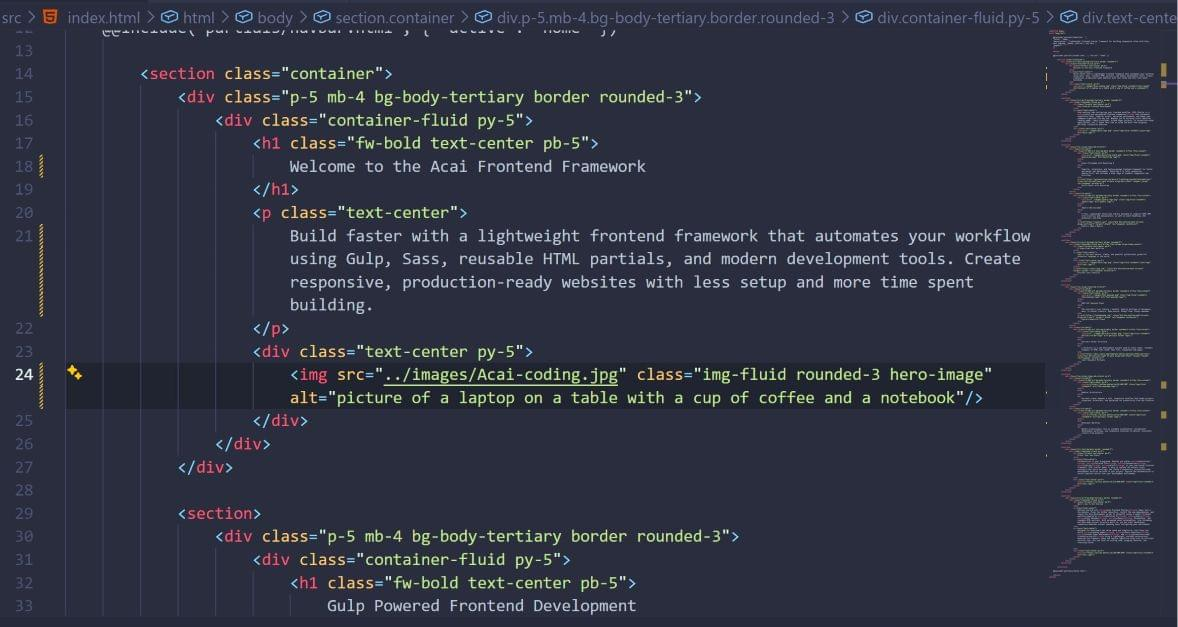
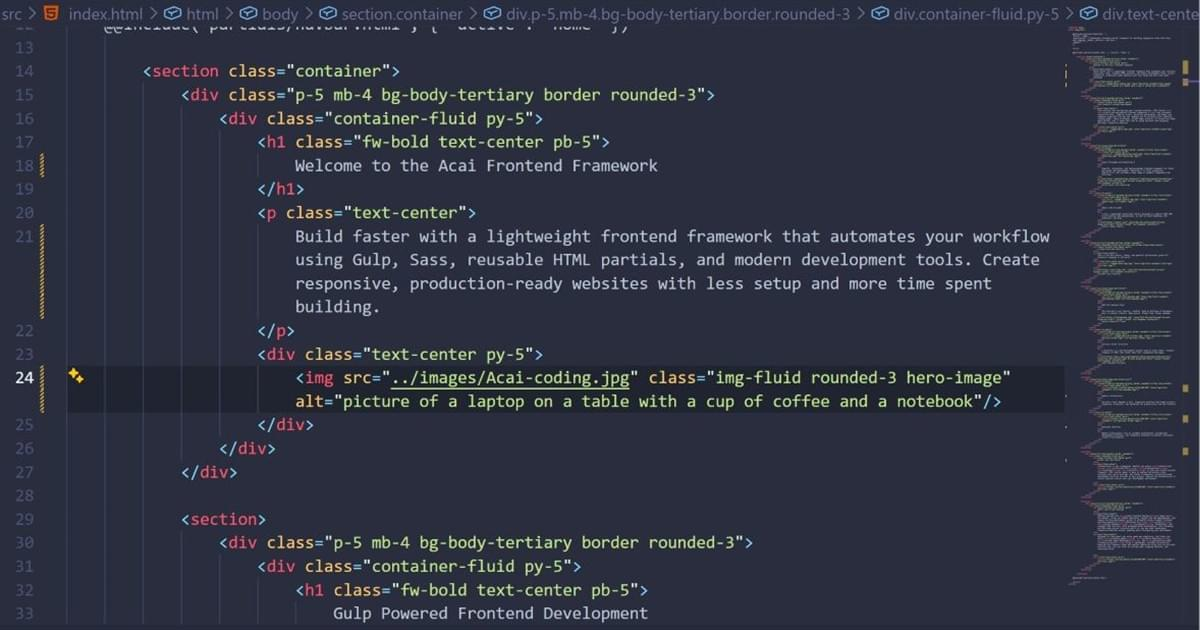
updated files

diff --git a/github.html b/github.html
@@ -1,4 +1,10 @@
-<!DOCTYPE html><html lang="en"><head><meta charset="UTF-8"><meta name="viewport" content="width=device-width,initial-scale=1"><title>GitHub | Project Acai</title><meta name="description" content="Download Project Acai, a lightweight frontend starter framework powered by Gulp, Bootstrap 5, Sass, BrowserSync, jQuery, Font Awesome, and reusable HTML partials."><meta name="robots" content="index, follow"><link rel="canonical" href="https://crendon213wp.github.io/project-acai/github.html"><link rel="icon" type="image/x-icon" href="images/acai-berry.png"><meta property="og:title" content="GitHub | Project Acai"><meta property="og:description" content="Download Project Acai, a lightweight frontend starter framework powered by Gulp, Bootstrap 5, Sass, BrowserSync, jQuery, Font Awesome, and reusable HTML partials."><meta property="og:image" content="https://crendon213wp.github.io/project-acai/images/og-image.jpg"><meta property="og:url" content="https://crendon213wp.github.io/project-acai/github.html"><meta property="og:type" content="website"><meta property="og:site_name" content="Project Acai"><meta name="twitter:card" content="summary_large_image"><meta name="twitter:title" content="GitHub | Project Acai"><meta name="twitter:description" content="Download Project Acai, a lightweight frontend starter framework powered by Gulp, Bootstrap 5, Sass, BrowserSync, jQuery, Font Awesome, and reusable HTML partials."><meta name="twitter:image" content="https://crendon213wp.github.io/project-acai/images/og-image.jpg"><link rel="preconnect" href="https://fonts.googleapis.com"><link rel="preconnect" href="https://fonts.gstatic.com" crossorigin><link href="https://fonts.googleapis.com/css2?family=Barlow:ital,wght@0,100;0,200;0,300;0,400;0,500;0,600;0,700;0,800;0,900;1,100;1,200;1,300;1,400;1,500;1,600;1,700;1,800;1,900&family=Montserrat:ital,wght@0,100..900;1,100..900&family=Space+Grotesk:ital,wght@0,100..900;1,100..900&family=Merriweather:ital,wght@0,100;0,200;0,300;0,400;0,500;0,600;0,700;0,800;0,900;1,100;1,200;1,300;1,400;1,500;1,600;1,700;1,800;1,900&display=swap" rel="stylesheet"><link rel="stylesheet" href="https://cdn.jsdelivr.net/npm/bootstrap@5.3.8/dist/css/bootstrap.min.css"><link rel="stylesheet" href="https://cdnjs.cloudflare.com/ajax/libs/font-awesome/7.0.1/css/all.min.css"><link rel="stylesheet" href="css/application.css"><script>(function(w,d,s,l,i){w[l]=w[l]||[];w[l].push({'gtm.start':
+<!DOCTYPE html><html lang="en"><head><meta charset="UTF-8"><meta name="viewport" content="width=device-width,initial-scale=1"><title>GitHub | Project Acai</title><meta name="description" content="Download Project Acai, a lightweight frontend starter framework powered by Gulp, Bootstrap 5, Sass, BrowserSync, jQuery, Font Awesome, and reusable HTML partials."><meta name="robots" content="index, follow"><link rel="canonical" href="https://crendon213wp.github.io/project-acai/github.html"><link rel="icon" type="image/svg+xml" href="images/favicon.svg"><link rel="icon" type="image/png" sizes="32x32" href="images/favicon-32x32.png"><link rel="apple-touch-icon" sizes="180x180" href="images/apple-touch-icon.png"><link rel="manifest" href="images/site.webmanifest"><meta property="og:title" content="GitHub | Project Acai"><meta property="og:description" content="Download Project Acai, a lightweight frontend starter framework powered by Gulp, Bootstrap 5, Sass, BrowserSync, jQuery, Font Awesome, and reusable HTML partials."><meta property="og:url" content="https://crendon213wp.github.io/project-acai/github.html"><meta property="og:type" content="website"><meta property="og:site_name" content="Project Acai"><meta property="og:locale" content="en_US"><meta property="og:image" content="https://crendon213wp.github.io/project-acai/images/og-image.jpg"><meta property="og:image:alt" content="Project Acai frontend starter displayed in a code editor"><meta property="og:image:width" content="1200"><meta property="og:image:height" content="630"><meta name="twitter:card" content="summary_large_image"><meta name="twitter:title" content="GitHub | Project Acai"><meta name="twitter:description" content="Download Project Acai, a lightweight frontend starter framework powered by Gulp, Bootstrap 5, Sass, BrowserSync, jQuery, Font Awesome, and reusable HTML partials."><meta name="twitter:image" content="https://crendon213wp.github.io/project-acai/images/og-image.jpg"><meta name="twitter:image:alt" content="Project Acai frontend starter displayed in a code editor"><meta name="theme-color" content="#5b2c6f"><script type="application/ld+json">{
+        "@context": "https://schema.org",
+        "@type": "WebPage",
+        "name": "GitHub | Project Acai",
+        "description": "Download Project Acai, a lightweight frontend starter framework powered by Gulp, Bootstrap 5, Sass, BrowserSync, jQuery, Font Awesome, and reusable HTML partials.",
+        "url": "https://crendon213wp.github.io/project-acai/github.html"
+    }</script><link rel="preconnect" href="https://fonts.googleapis.com"><link rel="preconnect" href="https://fonts.gstatic.com" crossorigin><link href="https://fonts.googleapis.com/css2?family=Barlow:ital,wght@0,100;0,200;0,300;0,400;0,500;0,600;0,700;0,800;0,900;1,100;1,200;1,300;1,400;1,500;1,600;1,700;1,800;1,900&family=Montserrat:ital,wght@0,100..900;1,100..900&family=Space+Grotesk:ital,wght@0,100..900;1,100..900&family=Merriweather:ital,wght@0,100;0,200;0,300;0,400;0,500;0,600;0,700;0,800;0,900;1,100;1,200;1,300;1,400;1,500;1,600;1,700;1,800;1,900&display=swap" rel="stylesheet"><link rel="stylesheet" href="https://cdn.jsdelivr.net/npm/bootstrap@5.3.8/dist/css/bootstrap.min.css"><link rel="stylesheet" href="https://cdnjs.cloudflare.com/ajax/libs/font-awesome/7.0.1/css/all.min.css"><link rel="stylesheet" href="css/application.css"><script>(function(w,d,s,l,i){w[l]=w[l]||[];w[l].push({'gtm.start':
     new Date().getTime(),event:'gtm.js'});var f=d.getElementsByTagName(s)[0],
     j=d.createElement(s),dl=l!='dataLayer'?'&l='+l:'';j.async=true;j.src=
     'https://www.googletagmanager.com/gtm.js?id='+i+dl;f.parentNode.insertBefore(j,f);

diff --git a/documentation.html b/documentation.html
@@ -1,4 +1,10 @@
-<!DOCTYPE html><html lang="en"><head><meta charset="UTF-8"><meta name="viewport" content="width=device-width,initial-scale=1"><title>Documentation | Project Acai</title><meta name="description" content="Lightweight frontend starter framework for building responsive sites with Gulp, Font Awesome, jQuery, partials, and Sass."><meta name="robots" content="index, follow"><link rel="canonical" href="https://crendon213wp.github.io/project-acai/documentation.html"><link rel="icon" type="image/x-icon" href="images/acai-berry.png"><meta property="og:title" content="Documentation | Project Acai"><meta property="og:description" content="Lightweight frontend starter framework for building responsive sites with Gulp, Font Awesome, jQuery, partials, and Sass."><meta property="og:image" content="https://crendon213wp.github.io/project-acai/images/og-image.jpg"><meta property="og:url" content="https://crendon213wp.github.io/project-acai/documentation.html"><meta property="og:type" content="website"><meta property="og:site_name" content="Project Acai"><meta name="twitter:card" content="summary_large_image"><meta name="twitter:title" content="Documentation | Project Acai"><meta name="twitter:description" content="Lightweight frontend starter framework for building responsive sites with Gulp, Font Awesome, jQuery, partials, and Sass."><meta name="twitter:image" content="https://crendon213wp.github.io/project-acai/images/og-image.jpg"><link rel="preconnect" href="https://fonts.googleapis.com"><link rel="preconnect" href="https://fonts.gstatic.com" crossorigin><link href="https://fonts.googleapis.com/css2?family=Barlow:ital,wght@0,100;0,200;0,300;0,400;0,500;0,600;0,700;0,800;0,900;1,100;1,200;1,300;1,400;1,500;1,600;1,700;1,800;1,900&family=Montserrat:ital,wght@0,100..900;1,100..900&family=Space+Grotesk:ital,wght@0,100..900;1,100..900&family=Merriweather:ital,wght@0,100;0,200;0,300;0,400;0,500;0,600;0,700;0,800;0,900;1,100;1,200;1,300;1,400;1,500;1,600;1,700;1,800;1,900&display=swap" rel="stylesheet"><link rel="stylesheet" href="https://cdn.jsdelivr.net/npm/bootstrap@5.3.8/dist/css/bootstrap.min.css"><link rel="stylesheet" href="https://cdnjs.cloudflare.com/ajax/libs/font-awesome/7.0.1/css/all.min.css"><link rel="stylesheet" href="css/application.css"><script>(function(w,d,s,l,i){w[l]=w[l]||[];w[l].push({'gtm.start':
+<!DOCTYPE html><html lang="en"><head><meta charset="UTF-8"><meta name="viewport" content="width=device-width,initial-scale=1"><title>Documentation | Project Acai</title><meta name="description" content="Lightweight frontend starter framework for building responsive sites with Gulp, Font Awesome, jQuery, partials, and Sass."><meta name="robots" content="index, follow"><link rel="canonical" href="https://crendon213wp.github.io/project-acai/documentation.html"><link rel="icon" type="image/svg+xml" href="images/favicon.svg"><link rel="icon" type="image/png" sizes="32x32" href="images/favicon-32x32.png"><link rel="apple-touch-icon" sizes="180x180" href="images/apple-touch-icon.png"><link rel="manifest" href="images/site.webmanifest"><meta property="og:title" content="Documentation | Project Acai"><meta property="og:description" content="Lightweight frontend starter framework for building responsive sites with Gulp, Font Awesome, jQuery, partials, and Sass."><meta property="og:url" content="https://crendon213wp.github.io/project-acai/documentation.html"><meta property="og:type" content="website"><meta property="og:site_name" content="Project Acai"><meta property="og:locale" content="en_US"><meta property="og:image" content="https://crendon213wp.github.io/project-acai/images/og-image.jpg"><meta property="og:image:alt" content="Project Acai frontend starter displayed in a code editor"><meta property="og:image:width" content="1200"><meta property="og:image:height" content="630"><meta name="twitter:card" content="summary_large_image"><meta name="twitter:title" content="Documentation | Project Acai"><meta name="twitter:description" content="Lightweight frontend starter framework for building responsive sites with Gulp, Font Awesome, jQuery, partials, and Sass."><meta name="twitter:image" content="https://crendon213wp.github.io/project-acai/images/og-image.jpg"><meta name="twitter:image:alt" content="Project Acai frontend starter displayed in a code editor"><meta name="theme-color" content="#5b2c6f"><script type="application/ld+json">{
+        "@context": "https://schema.org",
+        "@type": "WebPage",
+        "name": "Documentation | Project Acai",
+        "description": "Lightweight frontend starter framework for building responsive sites with Gulp, Font Awesome, jQuery, partials, and Sass.",
+        "url": "https://crendon213wp.github.io/project-acai/documentation.html"
+    }</script><link rel="preconnect" href="https://fonts.googleapis.com"><link rel="preconnect" href="https://fonts.gstatic.com" crossorigin><link href="https://fonts.googleapis.com/css2?family=Barlow:ital,wght@0,100;0,200;0,300;0,400;0,500;0,600;0,700;0,800;0,900;1,100;1,200;1,300;1,400;1,500;1,600;1,700;1,800;1,900&family=Montserrat:ital,wght@0,100..900;1,100..900&family=Space+Grotesk:ital,wght@0,100..900;1,100..900&family=Merriweather:ital,wght@0,100;0,200;0,300;0,400;0,500;0,600;0,700;0,800;0,900;1,100;1,200;1,300;1,400;1,500;1,600;1,700;1,800;1,900&display=swap" rel="stylesheet"><link rel="stylesheet" href="https://cdn.jsdelivr.net/npm/bootstrap@5.3.8/dist/css/bootstrap.min.css"><link rel="stylesheet" href="https://cdnjs.cloudflare.com/ajax/libs/font-awesome/7.0.1/css/all.min.css"><link rel="stylesheet" href="css/application.css"><script>(function(w,d,s,l,i){w[l]=w[l]||[];w[l].push({'gtm.start':
     new Date().getTime(),event:'gtm.js'});var f=d.getElementsByTagName(s)[0],
     j=d.createElement(s),dl=l!='dataLayer'?'&l='+l:'';j.async=true;j.src=
     'https://www.googletagmanager.com/gtm.js?id='+i+dl;f.parentNode.insertBefore(j,f);

diff --git a/components.html b/components.html
@@ -1,4 +1,10 @@
-<!DOCTYPE html><html lang="en"><head><meta charset="UTF-8"><meta name="viewport" content="width=device-width,initial-scale=1"><title>Components | Project Acai</title><meta name="description" content="Lightweight frontend starter framework for building responsive sites with Gulp, Font Awesome, jQuery, partials, and Sass."><meta name="robots" content="index, follow"><link rel="canonical" href="https://crendon213wp.github.io/project-acai/components.html"><link rel="icon" type="image/x-icon" href="images/acai-berry.png"><meta property="og:title" content="Components | Project Acai"><meta property="og:description" content="Lightweight frontend starter framework for building responsive sites with Gulp, Font Awesome, jQuery, partials, and Sass."><meta property="og:image" content="https://crendon213wp.github.io/project-acai/images/og-image.jpg"><meta property="og:url" content="https://crendon213wp.github.io/project-acai/components.html"><meta property="og:type" content="website"><meta property="og:site_name" content="Project Acai"><meta name="twitter:card" content="summary_large_image"><meta name="twitter:title" content="Components | Project Acai"><meta name="twitter:description" content="Lightweight frontend starter framework for building responsive sites with Gulp, Font Awesome, jQuery, partials, and Sass."><meta name="twitter:image" content="https://crendon213wp.github.io/project-acai/images/og-image.jpg"><link rel="preconnect" href="https://fonts.googleapis.com"><link rel="preconnect" href="https://fonts.gstatic.com" crossorigin><link href="https://fonts.googleapis.com/css2?family=Barlow:ital,wght@0,100;0,200;0,300;0,400;0,500;0,600;0,700;0,800;0,900;1,100;1,200;1,300;1,400;1,500;1,600;1,700;1,800;1,900&family=Montserrat:ital,wght@0,100..900;1,100..900&family=Space+Grotesk:ital,wght@0,100..900;1,100..900&family=Merriweather:ital,wght@0,100;0,200;0,300;0,400;0,500;0,600;0,700;0,800;0,900;1,100;1,200;1,300;1,400;1,500;1,600;1,700;1,800;1,900&display=swap" rel="stylesheet"><link rel="stylesheet" href="https://cdn.jsdelivr.net/npm/bootstrap@5.3.8/dist/css/bootstrap.min.css"><link rel="stylesheet" href="https://cdnjs.cloudflare.com/ajax/libs/font-awesome/7.0.1/css/all.min.css"><link rel="stylesheet" href="css/application.css"><script>(function(w,d,s,l,i){w[l]=w[l]||[];w[l].push({'gtm.start':
+<!DOCTYPE html><html lang="en"><head><meta charset="UTF-8"><meta name="viewport" content="width=device-width,initial-scale=1"><title>Components | Project Acai</title><meta name="description" content="Lightweight frontend starter framework for building responsive sites with Gulp, Font Awesome, jQuery, partials, and Sass."><meta name="robots" content="index, follow"><link rel="canonical" href="https://crendon213wp.github.io/project-acai/components.html"><link rel="icon" type="image/svg+xml" href="images/favicon.svg"><link rel="icon" type="image/png" sizes="32x32" href="images/favicon-32x32.png"><link rel="apple-touch-icon" sizes="180x180" href="images/apple-touch-icon.png"><link rel="manifest" href="images/site.webmanifest"><meta property="og:title" content="Components | Project Acai"><meta property="og:description" content="Lightweight frontend starter framework for building responsive sites with Gulp, Font Awesome, jQuery, partials, and Sass."><meta property="og:url" content="https://crendon213wp.github.io/project-acai/components.html"><meta property="og:type" content="website"><meta property="og:site_name" content="Project Acai"><meta property="og:locale" content="en_US"><meta property="og:image" content="https://crendon213wp.github.io/project-acai/images/og-image.jpg"><meta property="og:image:alt" content="Project Acai frontend starter displayed in a code editor"><meta property="og:image:width" content="1200"><meta property="og:image:height" content="630"><meta name="twitter:card" content="summary_large_image"><meta name="twitter:title" content="Components | Project Acai"><meta name="twitter:description" content="Lightweight frontend starter framework for building responsive sites with Gulp, Font Awesome, jQuery, partials, and Sass."><meta name="twitter:image" content="https://crendon213wp.github.io/project-acai/images/og-image.jpg"><meta name="twitter:image:alt" content="Project Acai frontend starter displayed in a code editor"><meta name="theme-color" content="#5b2c6f"><script type="application/ld+json">{
+        "@context": "https://schema.org",
+        "@type": "WebPage",
+        "name": "Components | Project Acai",
+        "description": "Lightweight frontend starter framework for building responsive sites with Gulp, Font Awesome, jQuery, partials, and Sass.",
+        "url": "https://crendon213wp.github.io/project-acai/components.html"
+    }</script><link rel="preconnect" href="https://fonts.googleapis.com"><link rel="preconnect" href="https://fonts.gstatic.com" crossorigin><link href="https://fonts.googleapis.com/css2?family=Barlow:ital,wght@0,100;0,200;0,300;0,400;0,500;0,600;0,700;0,800;0,900;1,100;1,200;1,300;1,400;1,500;1,600;1,700;1,800;1,900&family=Montserrat:ital,wght@0,100..900;1,100..900&family=Space+Grotesk:ital,wght@0,100..900;1,100..900&family=Merriweather:ital,wght@0,100;0,200;0,300;0,400;0,500;0,600;0,700;0,800;0,900;1,100;1,200;1,300;1,400;1,500;1,600;1,700;1,800;1,900&display=swap" rel="stylesheet"><link rel="stylesheet" href="https://cdn.jsdelivr.net/npm/bootstrap@5.3.8/dist/css/bootstrap.min.css"><link rel="stylesheet" href="https://cdnjs.cloudflare.com/ajax/libs/font-awesome/7.0.1/css/all.min.css"><link rel="stylesheet" href="css/application.css"><script>(function(w,d,s,l,i){w[l]=w[l]||[];w[l].push({'gtm.start':
     new Date().getTime(),event:'gtm.js'});var f=d.getElementsByTagName(s)[0],
     j=d.createElement(s),dl=l!='dataLayer'?'&l='+l:'';j.async=true;j.src=
     'https://www.googletagmanager.com/gtm.js?id='+i+dl;f.parentNode.insertBefore(j,f);

diff --git a/utilities.html b/utilities.html
@@ -1,4 +1,10 @@
-<!DOCTYPE html><html lang="en"><head><meta charset="UTF-8"><meta name="viewport" content="width=device-width,initial-scale=1"><title>Utilities | Project Acai</title><meta name="description" content="Lightweight frontend starter framework for building responsive sites with Gulp, Font Awesome, jQuery, partials, and Sass."><meta name="robots" content="index, follow"><link rel="canonical" href="https://crendon213wp.github.io/project-acai/utilities.html"><link rel="icon" type="image/x-icon" href="images/acai-berry.png"><meta property="og:title" content="Utilities | Project Acai"><meta property="og:description" content="Lightweight frontend starter framework for building responsive sites with Gulp, Font Awesome, jQuery, partials, and Sass."><meta property="og:image" content="https://crendon213wp.github.io/project-acai/images/og-image.jpg"><meta property="og:url" content="https://crendon213wp.github.io/project-acai/utilities.html"><meta property="og:type" content="website"><meta property="og:site_name" content="Project Acai"><meta name="twitter:card" content="summary_large_image"><meta name="twitter:title" content="Utilities | Project Acai"><meta name="twitter:description" content="Lightweight frontend starter framework for building responsive sites with Gulp, Font Awesome, jQuery, partials, and Sass."><meta name="twitter:image" content="https://crendon213wp.github.io/project-acai/images/og-image.jpg"><link rel="preconnect" href="https://fonts.googleapis.com"><link rel="preconnect" href="https://fonts.gstatic.com" crossorigin><link href="https://fonts.googleapis.com/css2?family=Barlow:ital,wght@0,100;0,200;0,300;0,400;0,500;0,600;0,700;0,800;0,900;1,100;1,200;1,300;1,400;1,500;1,600;1,700;1,800;1,900&family=Montserrat:ital,wght@0,100..900;1,100..900&family=Space+Grotesk:ital,wght@0,100..900;1,100..900&family=Merriweather:ital,wght@0,100;0,200;0,300;0,400;0,500;0,600;0,700;0,800;0,900;1,100;1,200;1,300;1,400;1,500;1,600;1,700;1,800;1,900&display=swap" rel="stylesheet"><link rel="stylesheet" href="https://cdn.jsdelivr.net/npm/bootstrap@5.3.8/dist/css/bootstrap.min.css"><link rel="stylesheet" href="https://cdnjs.cloudflare.com/ajax/libs/font-awesome/7.0.1/css/all.min.css"><link rel="stylesheet" href="css/application.css"><script>(function(w,d,s,l,i){w[l]=w[l]||[];w[l].push({'gtm.start':
+<!DOCTYPE html><html lang="en"><head><meta charset="UTF-8"><meta name="viewport" content="width=device-width,initial-scale=1"><title>Utilities | Project Acai</title><meta name="description" content="Lightweight frontend starter framework for building responsive sites with Gulp, Font Awesome, jQuery, partials, and Sass."><meta name="robots" content="index, follow"><link rel="canonical" href="https://crendon213wp.github.io/project-acai/utilities.html"><link rel="icon" type="image/svg+xml" href="images/favicon.svg"><link rel="icon" type="image/png" sizes="32x32" href="images/favicon-32x32.png"><link rel="apple-touch-icon" sizes="180x180" href="images/apple-touch-icon.png"><link rel="manifest" href="images/site.webmanifest"><meta property="og:title" content="Utilities | Project Acai"><meta property="og:description" content="Lightweight frontend starter framework for building responsive sites with Gulp, Font Awesome, jQuery, partials, and Sass."><meta property="og:url" content="https://crendon213wp.github.io/project-acai/utilities.html"><meta property="og:type" content="website"><meta property="og:site_name" content="Project Acai"><meta property="og:locale" content="en_US"><meta property="og:image" content="https://crendon213wp.github.io/project-acai/images/og-image.jpg"><meta property="og:image:alt" content="Project Acai frontend starter displayed in a code editor"><meta property="og:image:width" content="1200"><meta property="og:image:height" content="630"><meta name="twitter:card" content="summary_large_image"><meta name="twitter:title" content="Utilities | Project Acai"><meta name="twitter:description" content="Lightweight frontend starter framework for building responsive sites with Gulp, Font Awesome, jQuery, partials, and Sass."><meta name="twitter:image" content="https://crendon213wp.github.io/project-acai/images/og-image.jpg"><meta name="twitter:image:alt" content="Project Acai frontend starter displayed in a code editor"><meta name="theme-color" content="#5b2c6f"><script type="application/ld+json">{
+        "@context": "https://schema.org",
+        "@type": "WebPage",
+        "name": "Utilities | Project Acai",
+        "description": "Lightweight frontend starter framework for building responsive sites with Gulp, Font Awesome, jQuery, partials, and Sass.",
+        "url": "https://crendon213wp.github.io/project-acai/utilities.html"
+    }</script><link rel="preconnect" href="https://fonts.googleapis.com"><link rel="preconnect" href="https://fonts.gstatic.com" crossorigin><link href="https://fonts.googleapis.com/css2?family=Barlow:ital,wght@0,100;0,200;0,300;0,400;0,500;0,600;0,700;0,800;0,900;1,100;1,200;1,300;1,400;1,500;1,600;1,700;1,800;1,900&family=Montserrat:ital,wght@0,100..900;1,100..900&family=Space+Grotesk:ital,wght@0,100..900;1,100..900&family=Merriweather:ital,wght@0,100;0,200;0,300;0,400;0,500;0,600;0,700;0,800;0,900;1,100;1,200;1,300;1,400;1,500;1,600;1,700;1,800;1,900&display=swap" rel="stylesheet"><link rel="stylesheet" href="https://cdn.jsdelivr.net/npm/bootstrap@5.3.8/dist/css/bootstrap.min.css"><link rel="stylesheet" href="https://cdnjs.cloudflare.com/ajax/libs/font-awesome/7.0.1/css/all.min.css"><link rel="stylesheet" href="css/application.css"><script>(function(w,d,s,l,i){w[l]=w[l]||[];w[l].push({'gtm.start':
     new Date().getTime(),event:'gtm.js'});var f=d.getElementsByTagName(s)[0],
     j=d.createElement(s),dl=l!='dataLayer'?'&l='+l:'';j.async=true;j.src=
     'https://www.googletagmanager.com/gtm.js?id='+i+dl;f.parentNode.insertBefore(j,f);

diff --git a/index.html b/index.html
@@ -1,4 +1,10 @@
-<!DOCTYPE html><html lang="en"><head><meta charset="UTF-8"><meta name="viewport" content="width=device-width,initial-scale=1"><title>Home | Project Acai</title><meta name="description" content="Lightweight frontend starter framework for building responsive sites with Gulp, Font Awesome, jQuery, partials, and Sass."><meta name="robots" content="index, follow"><link rel="canonical" href="https://crendon213wp.github.io/project-acai/"><link rel="icon" type="image/x-icon" href="images/acai-berry.png"><meta property="og:title" content="Home | Project Acai"><meta property="og:description" content="Lightweight frontend starter framework for building responsive sites with Gulp, Font Awesome, jQuery, partials, and Sass."><meta property="og:image" content="https://crendon213wp.github.io/project-acai/images/og-image.jpg"><meta property="og:url" content="https://crendon213wp.github.io/project-acai/"><meta property="og:type" content="website"><meta property="og:site_name" content="Project Acai"><meta name="twitter:card" content="summary_large_image"><meta name="twitter:title" content="Home | Project Acai"><meta name="twitter:description" content="Lightweight frontend starter framework for building responsive sites with Gulp, Font Awesome, jQuery, partials, and Sass."><meta name="twitter:image" content="https://crendon213wp.github.io/project-acai/images/og-image.jpg"><link rel="preconnect" href="https://fonts.googleapis.com"><link rel="preconnect" href="https://fonts.gstatic.com" crossorigin><link href="https://fonts.googleapis.com/css2?family=Barlow:ital,wght@0,100;0,200;0,300;0,400;0,500;0,600;0,700;0,800;0,900;1,100;1,200;1,300;1,400;1,500;1,600;1,700;1,800;1,900&family=Montserrat:ital,wght@0,100..900;1,100..900&family=Space+Grotesk:ital,wght@0,100..900;1,100..900&family=Merriweather:ital,wght@0,100;0,200;0,300;0,400;0,500;0,600;0,700;0,800;0,900;1,100;1,200;1,300;1,400;1,500;1,600;1,700;1,800;1,900&display=swap" rel="stylesheet"><link rel="stylesheet" href="https://cdn.jsdelivr.net/npm/bootstrap@5.3.8/dist/css/bootstrap.min.css"><link rel="stylesheet" href="https://cdnjs.cloudflare.com/ajax/libs/font-awesome/7.0.1/css/all.min.css"><link rel="stylesheet" href="css/application.css"><script>(function(w,d,s,l,i){w[l]=w[l]||[];w[l].push({'gtm.start':
+<!DOCTYPE html><html lang="en"><head><meta charset="UTF-8"><meta name="viewport" content="width=device-width,initial-scale=1"><title>Home | Project Acai</title><meta name="description" content="Lightweight frontend starter framework for building responsive sites with Gulp, Font Awesome, jQuery, partials, and Sass."><meta name="robots" content="index, follow"><link rel="canonical" href="https://crendon213wp.github.io/project-acai"><link rel="icon" type="image/svg+xml" href="images/favicon.svg"><link rel="icon" type="image/png" sizes="32x32" href="images/favicon-32x32.png"><link rel="apple-touch-icon" sizes="180x180" href="images/apple-touch-icon.png"><link rel="manifest" href="images/site.webmanifest"><meta property="og:title" content="Home | Project Acai"><meta property="og:description" content="Lightweight frontend starter framework for building responsive sites with Gulp, Font Awesome, jQuery, partials, and Sass."><meta property="og:url" content="https://crendon213wp.github.io/project-acai"><meta property="og:type" content="website"><meta property="og:site_name" content="Project Acai"><meta property="og:locale" content="en_US"><meta property="og:image" content="https://crendon213wp.github.io/project-acai/images/og-image.jpg"><meta property="og:image:alt" content="Project Acai frontend starter displayed in a code editor"><meta property="og:image:width" content="1200"><meta property="og:image:height" content="630"><meta name="twitter:card" content="summary_large_image"><meta name="twitter:title" content="Home | Project Acai"><meta name="twitter:description" content="Lightweight frontend starter framework for building responsive sites with Gulp, Font Awesome, jQuery, partials, and Sass."><meta name="twitter:image" content="https://crendon213wp.github.io/project-acai/images/og-image.jpg"><meta name="twitter:image:alt" content="Project Acai frontend starter displayed in a code editor"><meta name="theme-color" content="#5b2c6f"><script type="application/ld+json">{
+        "@context": "https://schema.org",
+        "@type": "WebPage",
+        "name": "Home | Project Acai",
+        "description": "Lightweight frontend starter framework for building responsive sites with Gulp, Font Awesome, jQuery, partials, and Sass.",
+        "url": "https://crendon213wp.github.io/project-acai"
+    }</script><link rel="preconnect" href="https://fonts.googleapis.com"><link rel="preconnect" href="https://fonts.gstatic.com" crossorigin><link href="https://fonts.googleapis.com/css2?family=Barlow:ital,wght@0,100;0,200;0,300;0,400;0,500;0,600;0,700;0,800;0,900;1,100;1,200;1,300;1,400;1,500;1,600;1,700;1,800;1,900&family=Montserrat:ital,wght@0,100..900;1,100..900&family=Space+Grotesk:ital,wght@0,100..900;1,100..900&family=Merriweather:ital,wght@0,100;0,200;0,300;0,400;0,500;0,600;0,700;0,800;0,900;1,100;1,200;1,300;1,400;1,500;1,600;1,700;1,800;1,900&display=swap" rel="stylesheet"><link rel="stylesheet" href="https://cdn.jsdelivr.net/npm/bootstrap@5.3.8/dist/css/bootstrap.min.css"><link rel="stylesheet" href="https://cdnjs.cloudflare.com/ajax/libs/font-awesome/7.0.1/css/all.min.css"><link rel="stylesheet" href="css/application.css"><script>(function(w,d,s,l,i){w[l]=w[l]||[];w[l].push({'gtm.start':
     new Date().getTime(),event:'gtm.js'});var f=d.getElementsByTagName(s)[0],
     j=d.createElement(s),dl=l!='dataLayer'?'&l='+l:'';j.async=true;j.src=
     'https://www.googletagmanager.com/gtm.js?id='+i+dl;f.parentNode.insertBefore(j,f);
